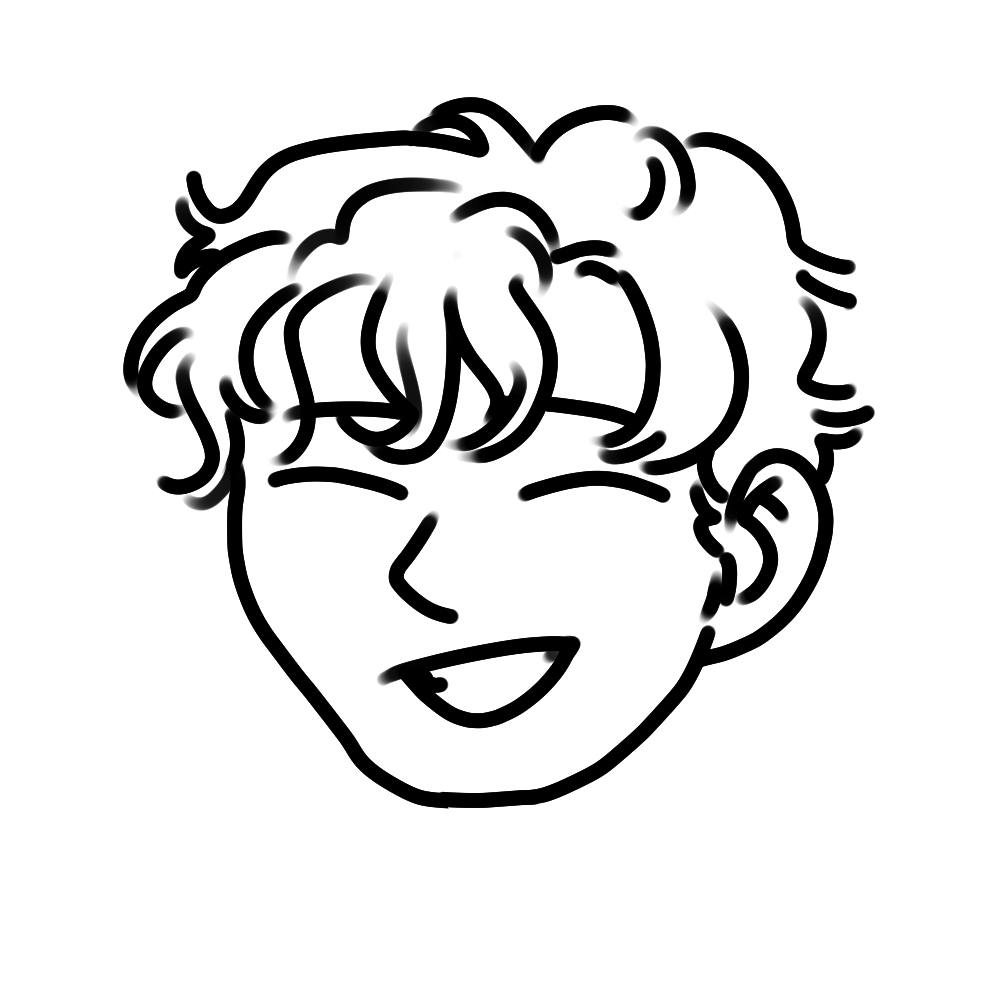
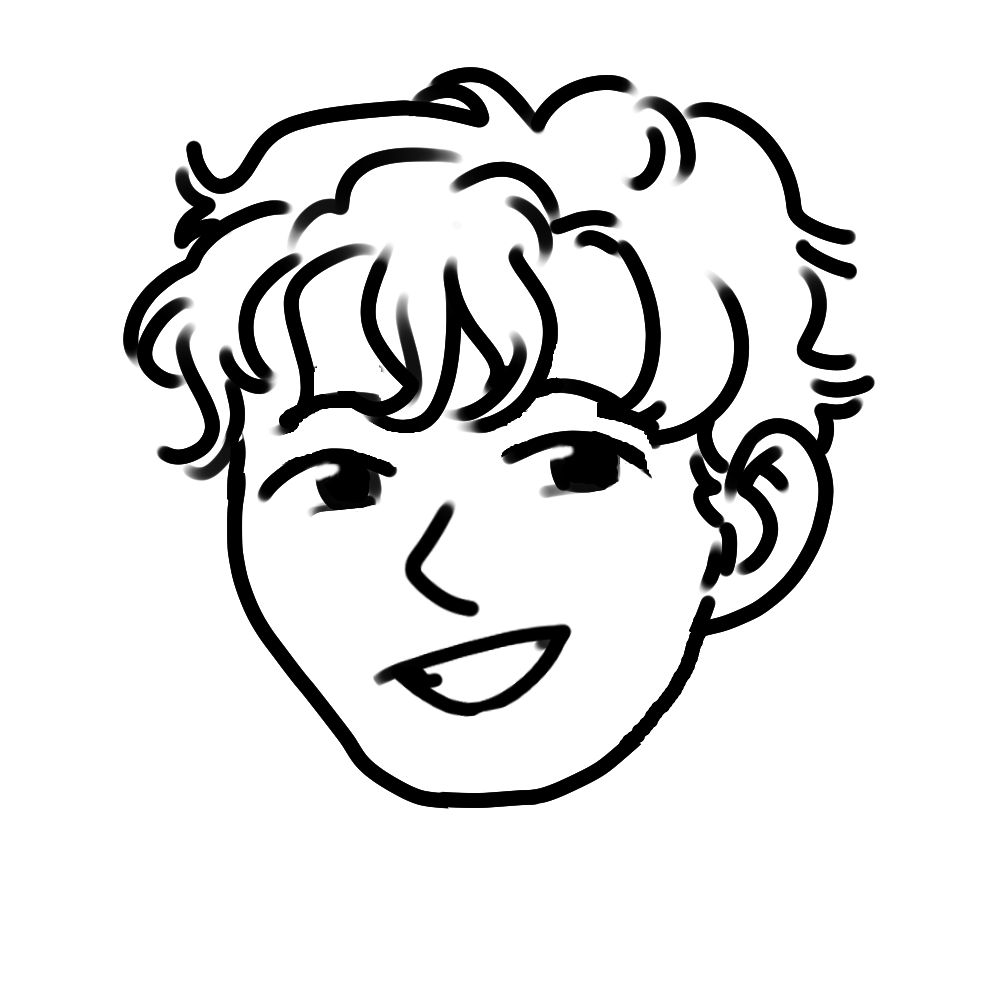
Batch 4.55

Changed region(s): [[0.124, 0.062, 0.868, 0.744]]

diff --git a/timeline/script.js b/timeline/script.js
@@ -112,7 +112,7 @@ const groups = [
     name: "The Brighton Gang",
     year: 2024,
     y: 210,
-    x: 22,
+    x: 24,
   },
   {
     name: "Worldover",
@@ -268,6 +268,18 @@ const people = [
     x: 31,
   },
   {
+    name: "Aleks",
+    year: 2017,
+    y: 100,
+    x: -15,
+  },
+  {
+    name: "Ashleigh",
+    year: 2017,
+    y: 300,
+    x: 12,
+  },
+  {
     name: "Duja",
     year: 2018,
     y: 150,
@@ -398,13 +410,13 @@ const people = [
     name: "Theo",
     year: 2024,
     y: 400,
-    x: 22,
+    x: 24,
   },
   {
     name: "Wren",
     year: 2024,
     y: 400,
-    x: 32,
+    x: 36,
   },
   {
     name: "Tom",
